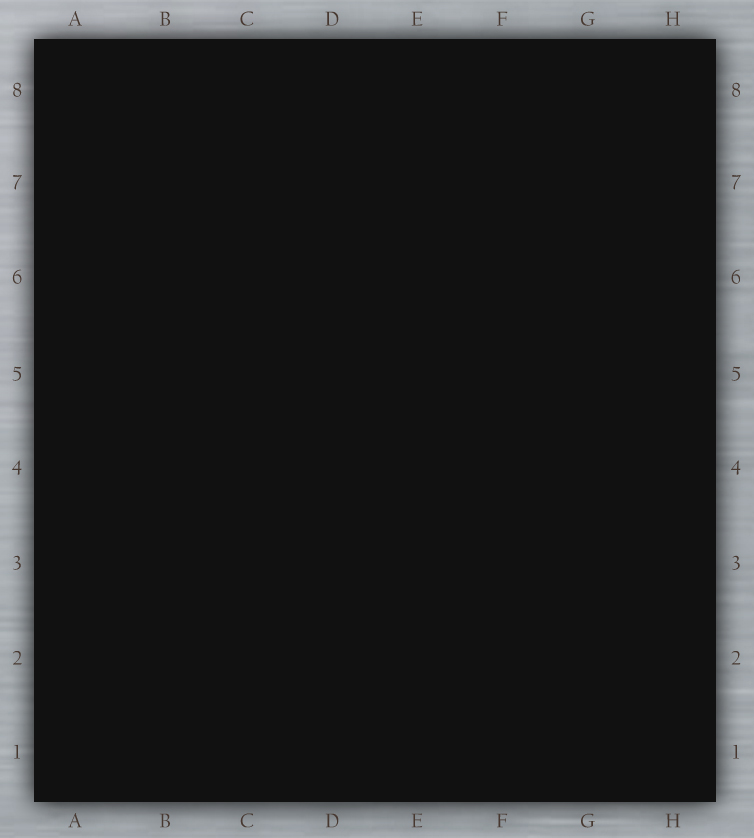
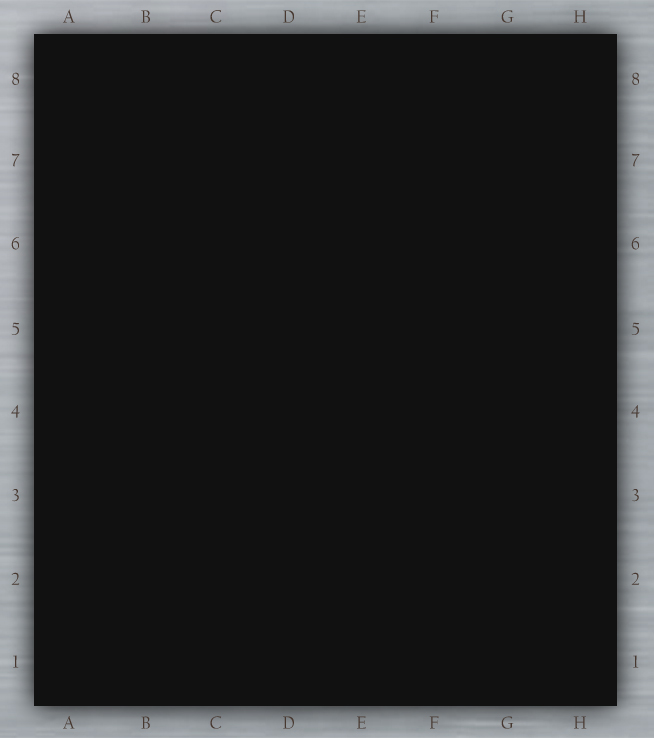
Fix resolution

diff --git a/src/com/chess/gui/Table.java b/src/com/chess/gui/Table.java
@@ -45,7 +45,8 @@ public class Table {
     private Tile destinationTile;
     private Piece humanMovePiece;
 
-    private static Dimension OUTER_FRAME_DIMENSION = new Dimension(950, 900);
+    //private static Dimension OUTER_FRAME_DIMENSION = new Dimension(950, 900);
+    private static Dimension OUTER_FRAME_DIMENSION = new Dimension(850, 800);
     private final static Dimension BOARD_PANEL_DIMENSION = new Dimension(400, 350);
     private final static Dimension TILE_PANEL_DIMENSION = new Dimension(10, 10);
     private final static Dimension TURN_SIGN_PANEL_DIMENSION = new Dimension(400, 5);
@@ -430,8 +431,10 @@ public class Table {
             layeredPane.add(chessPanel,JLayeredPane.PALETTE_LAYER);
             this.add(layeredPane,BorderLayout.CENTER);
 
-            legendPanel.setBounds(0,0,900,900);
-            chessPanel.setBounds(35,40,680,760);
+            /*legendPanel.setBounds(0,0,900,900);
+            chessPanel.setBounds(35,40,680,760);*/
+            legendPanel.setBounds(0,0,800,800);
+            chessPanel.setBounds(33,33,584,672);
 
             setPreferredSize(BOARD_PANEL_DIMENSION);
             validate();
@@ -439,6 +442,7 @@ public class Table {
 
         public void drawBoard(final Board board) throws IOException {
             chessPanel.drawBoard(board);
+            System.out.println(getSize().getWidth() + " - " +getSize().getHeight());
         }
     }
 
